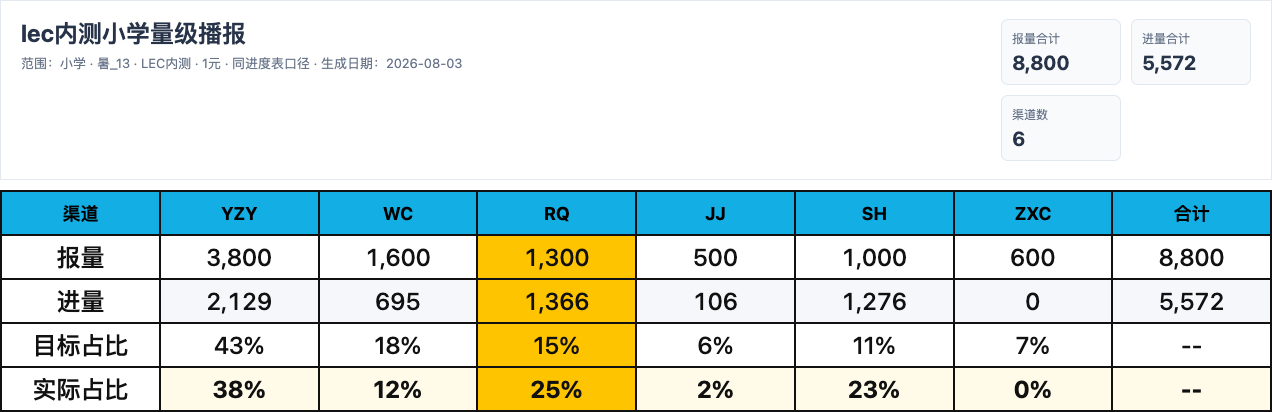
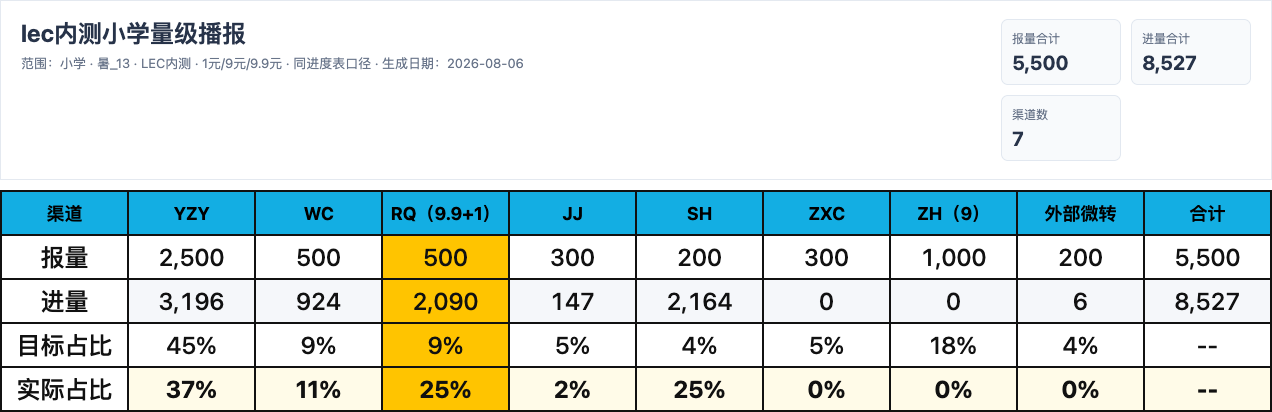
Update LEC channel share targets

diff --git a/reports/daily_progress/lec1_share.html b/reports/daily_progress/lec1_share.html
@@ -10,18 +10,18 @@
     <header>
       <div>
         <h1>lec内测小学量级播报</h1>
-        <p>范围：小学 · 暑_13 · LEC内测 · 1元 · 同进度表口径 · 生成日期：2026-08-03</p>
+        <p>范围：小学 · 暑_13 · LEC内测 · 1元/9元/9.9元 · 同进度表口径 · 生成日期：2026-08-06</p>
       </div>
       <div class="metrics">
-        <div><span>报量合计</span><b>8,800</b></div>
-        <div><span>进量合计</span><b>5,572</b></div>
-        <div><span>渠道数</span><b>6</b></div>
+        <div><span>报量合计</span><b>5,500</b></div>
+        <div><span>进量合计</span><b>8,527</b></div>
+        <div><span>渠道数</span><b>7</b></div>
       </div>
     </header>
     <section class="card lec1-card">
       <table class="lec1-table">
-        <thead><tr><th>渠道</th><th>YZY</th><th>WC</th><th>RQ</th><th>JJ</th><th>SH</th><th>ZXC</th><th>合计</th></tr></thead>
-        <tbody><tr><th>报量</th><td class="num">3,800</td><td class="num">1,600</td><td class="num highlight">1,300</td><td class="num">500</td><td class="num">1,000</td><td class="num">600</td><td class="num">8,800</td></tr><tr><th>进量</th><td class="num">2,129</td><td class="num">695</td><td class="num highlight">1,366</td><td class="num">106</td><td class="num">1,276</td><td class="num">0</td><td class="num">5,572</td></tr><tr><th>目标占比</th><td>43%</td><td>18%</td><td class="highlight">15%</td><td>6%</td><td>11%</td><td>7%</td><td>--</td></tr><tr><th>实际占比</th><td>38%</td><td>12%</td><td class="highlight">25%</td><td>2%</td><td>23%</td><td>0%</td><td>--</td></tr></tbody>
+        <thead><tr><th>渠道</th><th>YZY</th><th>WC</th><th>RQ（9.9+1）</th><th>JJ</th><th>SH</th><th>ZXC</th><th>ZH（9）</th><th>外部微转</th><th>合计</th></tr></thead>
+        <tbody><tr><th>报量</th><td class="num">2,500</td><td class="num">500</td><td class="num highlight">500</td><td class="num">300</td><td class="num">200</td><td class="num">300</td><td class="num">1,000</td><td class="num">200</td><td class="num">5,500</td></tr><tr><th>进量</th><td class="num">3,196</td><td class="num">924</td><td class="num highlight">2,090</td><td class="num">147</td><td class="num">2,164</td><td class="num">0</td><td class="num">0</td><td class="num">6</td><td class="num">8,527</td></tr><tr><th>目标占比</th><td>45%</td><td>9%</td><td class="highlight">9%</td><td>5%</td><td>4%</td><td>5%</td><td>18%</td><td>4%</td><td>--</td></tr><tr><th>实际占比</th><td>37%</td><td>11%</td><td class="highlight">25%</td><td>2%</td><td>25%</td><td>0%</td><td>0%</td><td>0%</td><td>--</td></tr></tbody>
       </table>
     </section>
   </main>

diff --git a/tests/test_daily_report_images.py b/tests/test_daily_report_images.py
@@ -79,16 +79,17 @@ class Lec1ChannelsTest(unittest.TestCase):
         self.assertEqual(
             LEC1_CHANNELS,
             [
-                ("YZY", "out_wxst_wxstqt_1774944753086", 3800, 0.43),
-                ("WC", "out_wxst_wxstqt_1774944782661", 1600, 0.18),
-                ("RQ", "out_wxst_wxstqt_1774945025540", 1300, 0.15),
-                ("JJ", "out_wxst_wxstqt_1774945094967", 500, 0.06),
-                ("SH", "out_wxst_wxstqt_1774944710158", 1000, 0.11),
-                ("ZXC", "out_wxst_wxstqt_1781763514315", 600, 0.07),
+                ("YZY", "out_wxst_wxstqt_1774944753086", 2500, 0.45, [100]),
+                ("WC", "out_wxst_wxstqt_1774944782661", 500, 0.09, [100]),
+                ("RQ（9.9+1）", "out_wxst_wxstqt_1774945025540", 500, 0.09, [100, 990]),
+                ("JJ", "out_wxst_wxstqt_1774945094967", 300, 0.05, [100]),
+                ("SH", "out_wxst_wxstqt_1774944710158", 200, 0.04, [100]),
+                ("ZXC", "out_wxst_wxstqt_1781763514315", 300, 0.05, [100]),
+                ("ZH（9）", "out_wxst_wxstqt_1781763613827", 1000, 0.18, [900]),
             ],
         )
-        self.assertEqual(sum(channel[2] for channel in LEC1_CHANNELS), 8800)
-        self.assertEqual(sum(channel[3] for channel in LEC1_CHANNELS), 1)
+        self.assertEqual(sum(channel[2] for channel in LEC1_CHANNELS), 5300)
+        self.assertEqual(sum(channel[3] for channel in LEC1_CHANNELS), 0.95)
 
     def test_scope_matches_progress_summary_without_intake_cutoff(self):
         demo = pd.DataFrame(
@@ -167,7 +168,7 @@ class Lec1ChannelsTest(unittest.TestCase):
         result = filter_lec1_data(demo, target)
 
         self.assertEqual(latest_lec1_term(target), "暑_12")
-        self.assertEqual(result["custom_uid"].tolist(), ["u1"])
+        self.assertEqual(result["custom_uid"].tolist(), ["u1", "u4"])
 
     def test_intake_uses_order_volume_with_custom_uid_deduplication(self):
         demo = pd.DataFrame(
@@ -211,7 +212,7 @@ class Lec1ChannelsTest(unittest.TestCase):
 
         result = filter_lec1_data(demo, target)
         counts = lec1_channel_counts(result)
-        yzy_index = [name for name, _code, _target, _share in LEC1_CHANNELS].index("YZY")
+        yzy_index = [name for name, _code, _target, _share, _payment_values in LEC1_CHANNELS].index("YZY")
 
         self.assertEqual(len(result), 2)
         self.assertEqual(counts[yzy_index], 1)
@@ -222,13 +223,15 @@ class Lec1ChannelsTest(unittest.TestCase):
                 {"价体": 100, "custom_uid": "y1", "last_from": "out_wxst_wxstqt_1774944753086"},
                 {"价体": 100, "custom_uid": "y2", "last_from": "out_wxst_wxstqt_1774944753086"},
                 {"价体": 100, "custom_uid": "r1", "last_from": "out_wxst_wxstqt_1774945025540"},
+                {"价体": 990, "custom_uid": "r2", "last_from": "out_wxst_wxstqt_1774945025540"},
+                {"价体": 900, "custom_uid": "z1", "last_from": "out_wxst_wxstqt_1781763613827"},
                 {"价体": 990, "custom_uid": "s1", "last_from": "out_wxst_wxstqt_1774944710158"},
             ]
         )
 
         shares = lec1_actual_shares(data)
 
-        self.assertEqual(shares, [2 / 3, 0, 1 / 3, 0, 0, 0])
+        self.assertEqual(shares, [2 / 5, 0, 2 / 5, 0, 0, 0, 1 / 5])
 
     def test_render_lec1_share_uses_summary_total_and_keeps_other_channel(self):
         demo = pd.DataFrame(
@@ -294,10 +297,10 @@ class Lec1ChannelsTest(unittest.TestCase):
         ):
             output = render_lec1_share(demo, target, summary)
 
-        self.assertEqual(output["summary"]["报量"], "8800")
+        self.assertEqual(output["summary"]["报量"], "5500")
         self.assertEqual(output["summary"]["进量"], "2")
         self.assertIn("YZY=1", output["summary"]["渠道进量"])
-        self.assertIn("其他=1", output["summary"]["渠道进量"])
+        self.assertIn("外部微转=1", output["summary"]["渠道进量"])
 
     def test_lec1_summary_scope_accepts_csv_and_xlsx_payment_formats(self):
         summary = pd.DataFrame(
@@ -310,7 +313,7 @@ class Lec1ChannelsTest(unittest.TestCase):
 
         scoped = lec1_summary_scope(summary, "暑_12")
 
-        self.assertEqual(scoped["目标"].sum(), 3)
+        self.assertEqual(scoped["目标"].sum(), 6)
 
 
 class ArtifactConsistencyTest(unittest.TestCase):
@@ -342,14 +345,9 @@ class ArtifactConsistencyTest(unittest.TestCase):
             )
 
         lec1 = manifest["lec1"]
-        lec1_scope = csv[
-            csv["学部"].eq("小学")
-            & csv["期次"].eq(lec1["term"])
-            & csv["线索渠道二级分类"].eq("LEC内测")
-            & pd.to_numeric(csv["价体"], errors="coerce").eq(1)
-        ]
-        self.assertEqual(lec1["summary"]["报量"], str(int(lec1_scope["目标"].sum())))
-        self.assertEqual(lec1["summary"]["进量"], str(int(lec1_scope["现状"].sum())))
+        self.assertEqual(lec1["summary"]["报量"], "5500")
+        self.assertIn("RQ（9.9+1）=", lec1["summary"]["渠道进量"])
+        self.assertIn("ZH（9）=", lec1["summary"]["渠道进量"])
 
 
 class StatusTextTest(unittest.TestCase):

diff --git a/reports/build_daily_report_images.py b/reports/build_daily_report_images.py
@@ -35,15 +35,18 @@ GRADE_ORDER = {
     "高三": 3,
 }
 LEC1_CHANNELS = [
-    ("YZY", "out_wxst_wxstqt_1774944753086", 3800, 0.43),
-    ("WC", "out_wxst_wxstqt_1774944782661", 1600, 0.18),
-    ("RQ", "out_wxst_wxstqt_1774945025540", 1300, 0.15),
-    ("JJ", "out_wxst_wxstqt_1774945094967", 500, 0.06),
-    ("SH", "out_wxst_wxstqt_1774944710158", 1000, 0.11),
-    ("ZXC", "out_wxst_wxstqt_1781763514315", 600, 0.07),
+    ("YZY", "out_wxst_wxstqt_1774944753086", 2500, 0.45, [100]),
+    ("WC", "out_wxst_wxstqt_1774944782661", 500, 0.09, [100]),
+    ("RQ（9.9+1）", "out_wxst_wxstqt_1774945025540", 500, 0.09, [100, 990]),
+    ("JJ", "out_wxst_wxstqt_1774945094967", 300, 0.05, [100]),
+    ("SH", "out_wxst_wxstqt_1774944710158", 200, 0.04, [100]),
+    ("ZXC", "out_wxst_wxstqt_1781763514315", 300, 0.05, [100]),
+    ("ZH（9）", "out_wxst_wxstqt_1781763613827", 1000, 0.18, [900]),
 ]
-LEC1_PAYMENT_VALUES = [100]
-LEC1_PAYMENT_LABEL = "1元"
+LEC1_OTHER_NAME = "外部微转"
+LEC1_OTHER_TARGET_VOLUME = 200
+LEC1_PAYMENT_VALUES = sorted({value for *_prefix, values in LEC1_CHANNELS for value in values})
+LEC1_PAYMENT_LABEL = "1元/9元/9.9元"
 
 
 def term_key(value):
@@ -393,8 +396,8 @@ def filter_lec1_data(demo, target, term=None):
 
 def lec1_channel_counts(data):
     return [
-        lec1_channel_count(data, last_from, LEC1_PAYMENT_VALUES)
-        for _name, last_from, _target_volume, _target_share in LEC1_CHANNELS
+        lec1_channel_count(data, last_from, payment_values)
+        for _name, last_from, _target_volume, _target_share, payment_values in LEC1_CHANNELS
     ]
 
 
@@ -410,12 +413,12 @@ def lec1_channel_count(data, last_from, payment_values):
 
 
 def lec1_actual_shares(data, total=None):
-    one_yuan_counts = [
-        lec1_channel_count(data, last_from, [100])
-        for _name, last_from, _target_volume, _target_share in LEC1_CHANNELS
+    counts = [
+        lec1_channel_count(data, last_from, payment_values)
+        for _name, last_from, _target_volume, _target_share, payment_values in LEC1_CHANNELS
     ]
-    denominator = sum(one_yuan_counts) if total is None else total
-    return [count / denominator if denominator else 0 for count in one_yuan_counts]
+    denominator = sum(counts) if total is None else total
+    return [count / denominator if denominator else 0 for count in counts]
 
 
 def render_lec1_share(demo, target, summary):
@@ -423,19 +426,21 @@ def render_lec1_share(demo, target, summary):
     data = filter_lec1_data(demo, target, term)
     summary_scope = lec1_summary_scope(summary, term)
     counts = lec1_channel_counts(data)
-    target_volumes = [target_volume for _name, _last_from, target_volume, _target_share in LEC1_CHANNELS]
-    target_total = int(summary_scope["目标"].sum())
+    target_volumes = [
+        target_volume for _name, _last_from, target_volume, _target_share, _payment_values in LEC1_CHANNELS
+    ]
     intake_total = int(summary_scope["现状"].sum())
-    other_target = target_total - sum(target_volumes)
+    other_target = LEC1_OTHER_TARGET_VOLUME
+    target_total = sum(target_volumes) + other_target
     other_count = intake_total - sum(counts)
     if other_target or other_count:
         target_volumes.append(other_target)
         counts.append(other_count)
     target_shares = [target_volume / target_total if target_total else 0 for target_volume in target_volumes]
     actual_shares = [count / intake_total if intake_total else 0 for count in counts]
-    names = [name for name, _last_from, _target_volume, _target_share in LEC1_CHANNELS]
+    names = [name for name, _last_from, _target_volume, _target_share, _payment_values in LEC1_CHANNELS]
     if len(counts) > len(names):
-        names.append("其他")
+        names.append(LEC1_OTHER_NAME)
 
     def cells(values, formatter, extra_class=""):
         rendered = []
@@ -443,7 +448,7 @@ def render_lec1_share(demo, target, summary):
             classes = []
             if extra_class:
                 classes.append(extra_class)
-            if names[index] == "RQ":
+            if names[index].startswith("RQ"):
                 classes.append("highlight")
             class_attr = f' class="{" ".join(classes)}"' if classes else ""
             rendered.append(f"<td{class_attr}>{formatter(value)}</td>")

diff --git a/docs/PRD-progress-dashboard.md b/docs/PRD-progress-dashboard.md
@@ -819,7 +819,7 @@ state/
 - 剩余天数：与进度使用同一计算结果，目标日及以后为 0；目标日前为 `max(6 - 当前进度阶段, 1)`，当前进度阶段等于进度乘 6。
 - 状态：与看板状态分类一致。
 - 年级排序：小学二至六年级、初中初一至初三、高中高一至高三。
-- lec内测小学量级：固定统计小学、LEC内测、1 元、target 中该范围最新期次；报量合计和进量合计必须来自统一 Summary；渠道报量与目标占比为 YZY 3800（43%）、WC 1600（18%）、RQ 1300（15%）、JJ 500（6%）、SH 1000（11%）、ZXC 600（7%），合计 8800（100%）；六个指定 `last_from` 外的 Summary 进量差额列为“其他”；实际占比按 Summary 进量合计计算。
+- lec内测小学量级：固定统计小学、LEC内测、1 元/9 元/9.9 元、target 中该范围最新期次；渠道报量与目标占比为 YZY 2500（45%）、WC 500（9%）、RQ（9.9+1）500（9%）、JJ 300（5%）、SH 200（4%）、ZXC 300（5%）、ZH（9）1000（18%）、外部微转 200（4%），合计 5500（100%）；RQ 进量统计 1 元和 9.9 元价体的总单量，ZH 进量统计 9 元价体单量；指定 `last_from` 外的 Summary 进量差额列为“外部微转”；实际占比按 Summary 中 1 元/9 元/9.9 元进量合计计算。
 
 ### 8.4 钉钉输出规则
 

diff --git a/docs/CHANGELOG.md b/docs/CHANGELOG.md
@@ -6,6 +6,7 @@
 
 ### Changed
 
+- `lec1元占比` 的渠道目标更新为 YZY 2500（45%）、WC 500（9%）、RQ（9.9+1）500（9%）、JJ 300（5%）、SH 200（4%）、ZXC 300（5%）、ZH（9）1000（18%）、外部微转 200（4%），报量合计 5500；RQ 改为统计 1 元和 9.9 元总单量，ZH 使用 `out_wxst_wxstqt_1781763613827` 统计 9 元单量。
 - Summary 明细展示顺序改为同渠道内优先按价体排列，再按学部业务年级顺序排列，让相同价体聚在一起展示。
 
 ## 2026-07-31
